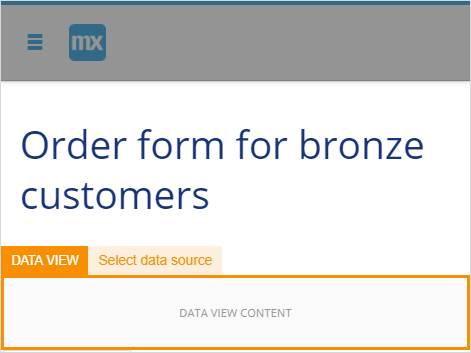
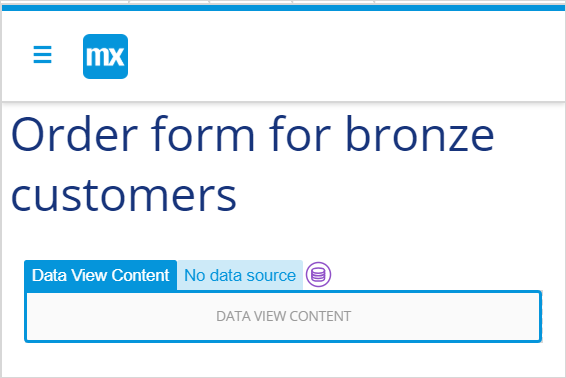
add screenshots

diff --git a/content/howto/web-modeler/webmodeler-how-to-microflows-exclsplit-p2.md b/content/howto/web-modeler/webmodeler-how-to-microflows-exclsplit-p2.md
@@ -77,8 +77,8 @@ You can now publish and view your app.
 
 To embed the microflow with an exclusive split (the attribute of the Boolean type), do the following:
 
-1. We need to add an option to mark customer as blocked. To do this, open the **New_customer page** created in the previous section. For more information, see [Embedding the Microflow Having an Exclusive Split with Attribute of the Enumeration Type](#embedding-exclusive-split-enumeration).
-2. In **Toolbox**>**Widgets** >**Input Elements** select **Radio Buttons**, drag and drop it into the **DATA VIEW** container.
+1. We need to add an option to mark customer as blocked. To do this, open the **New_customer** page created in the previous section. For more information, see [Embedding the Microflow Having an Exclusive Split with Attribute of the Enumeration Type](#embedding-exclusive-split-enumeration).
+2. In **Toolbox**>**Widgets** >**Input Elements** select **Radio Buttons**, drag and drop it into the **Data view** container.
 3.  In the **Properties** for the radio buttons, click **Data Source**>**Attribute** and select **Blocked Boolean**. 
 
     ![](attachments/webmodeler-how-to-microflows-exclsplit/wm-new-customer-page-blocked-attribute.png)
@@ -98,7 +98,7 @@ To embed the microflow with an exclusive split (the attribute of the Boolean typ
 
     ![](attachments/webmodeler-how-to-microflows-exclsplit/wm-data-view-properties.png)
 
-8.  In **Toolbox**>**Widgets**>**Buttons**, find the **Call Microflow** button, drag and drop it into the **DATA VIEW** container. 
+8.  In **Toolbox**>**Widgets**>**Buttons**, find the **Call Microflow** button, drag and drop it into the **Data View** container. 
 
     ![](attachments/webmodeler-how-to-microflows-exclsplit/wm-call-microflow-button-in-data-view.png)
 
